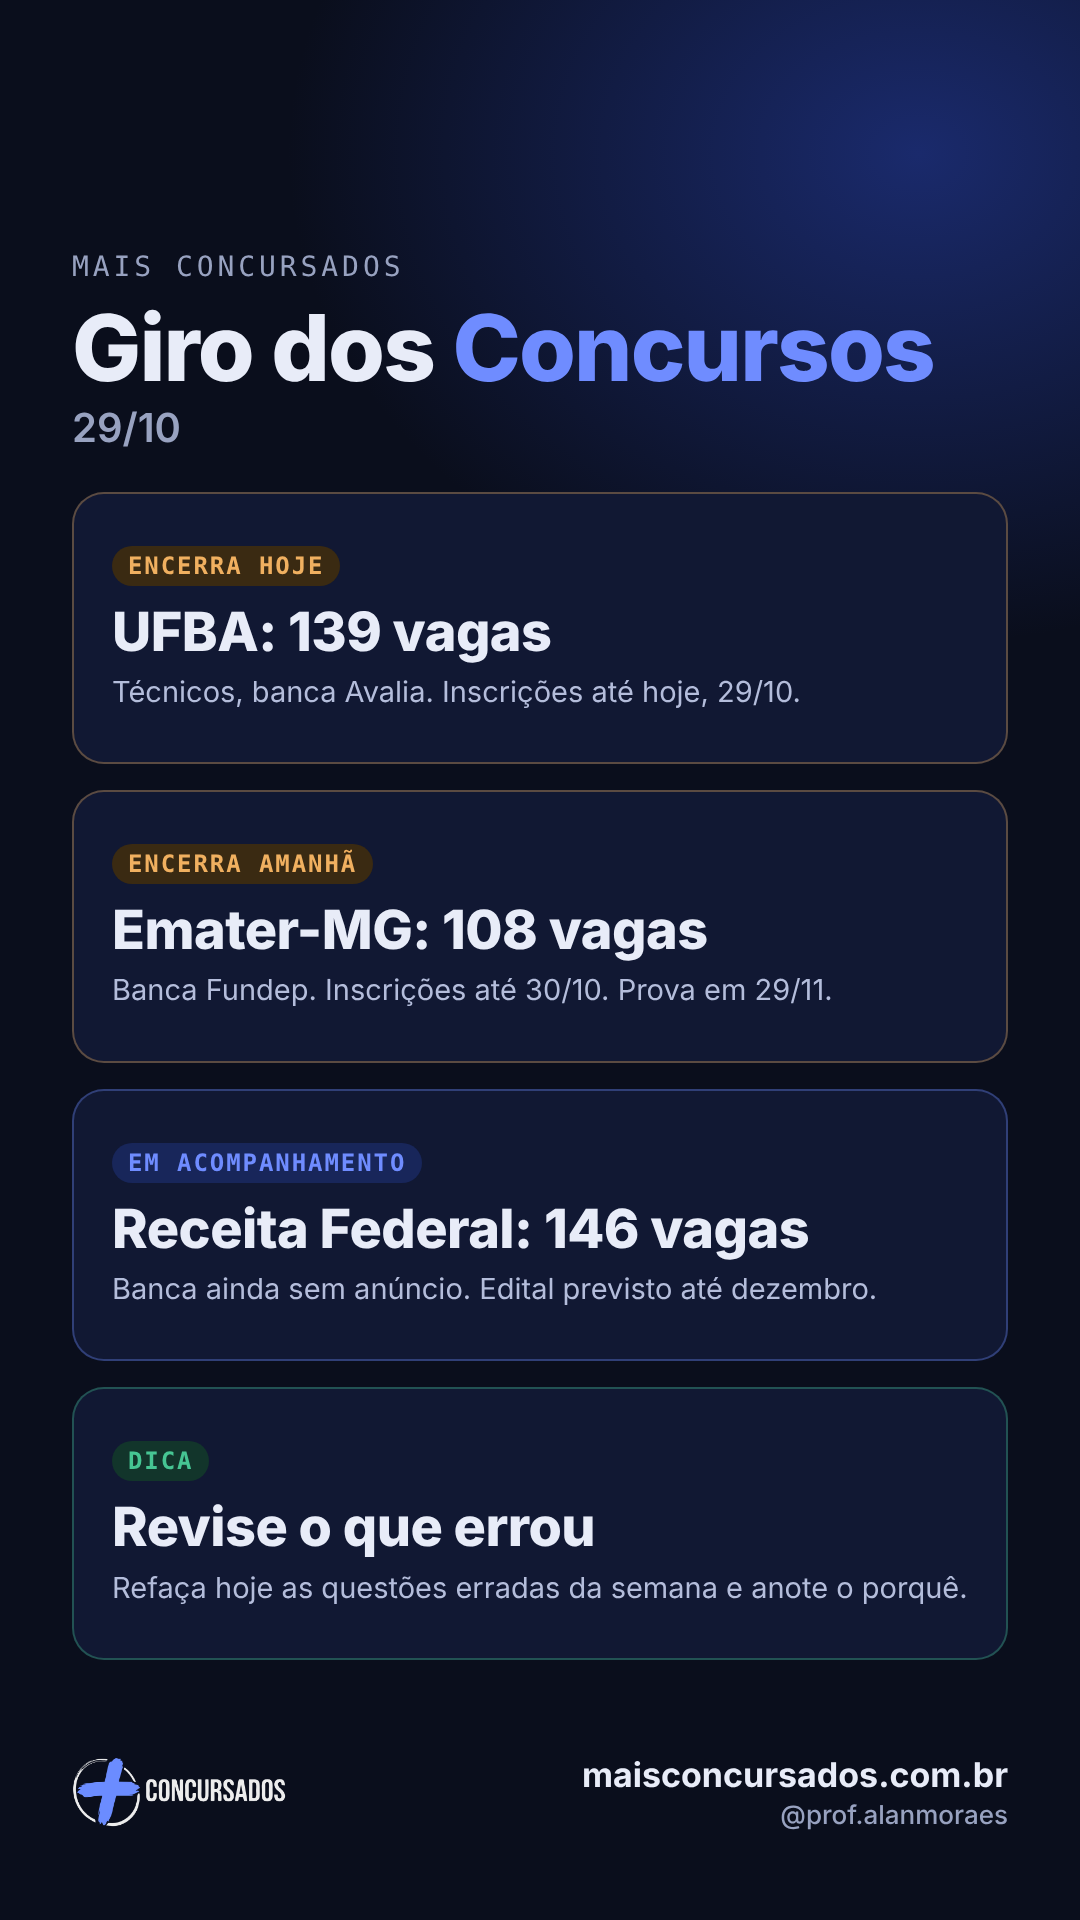
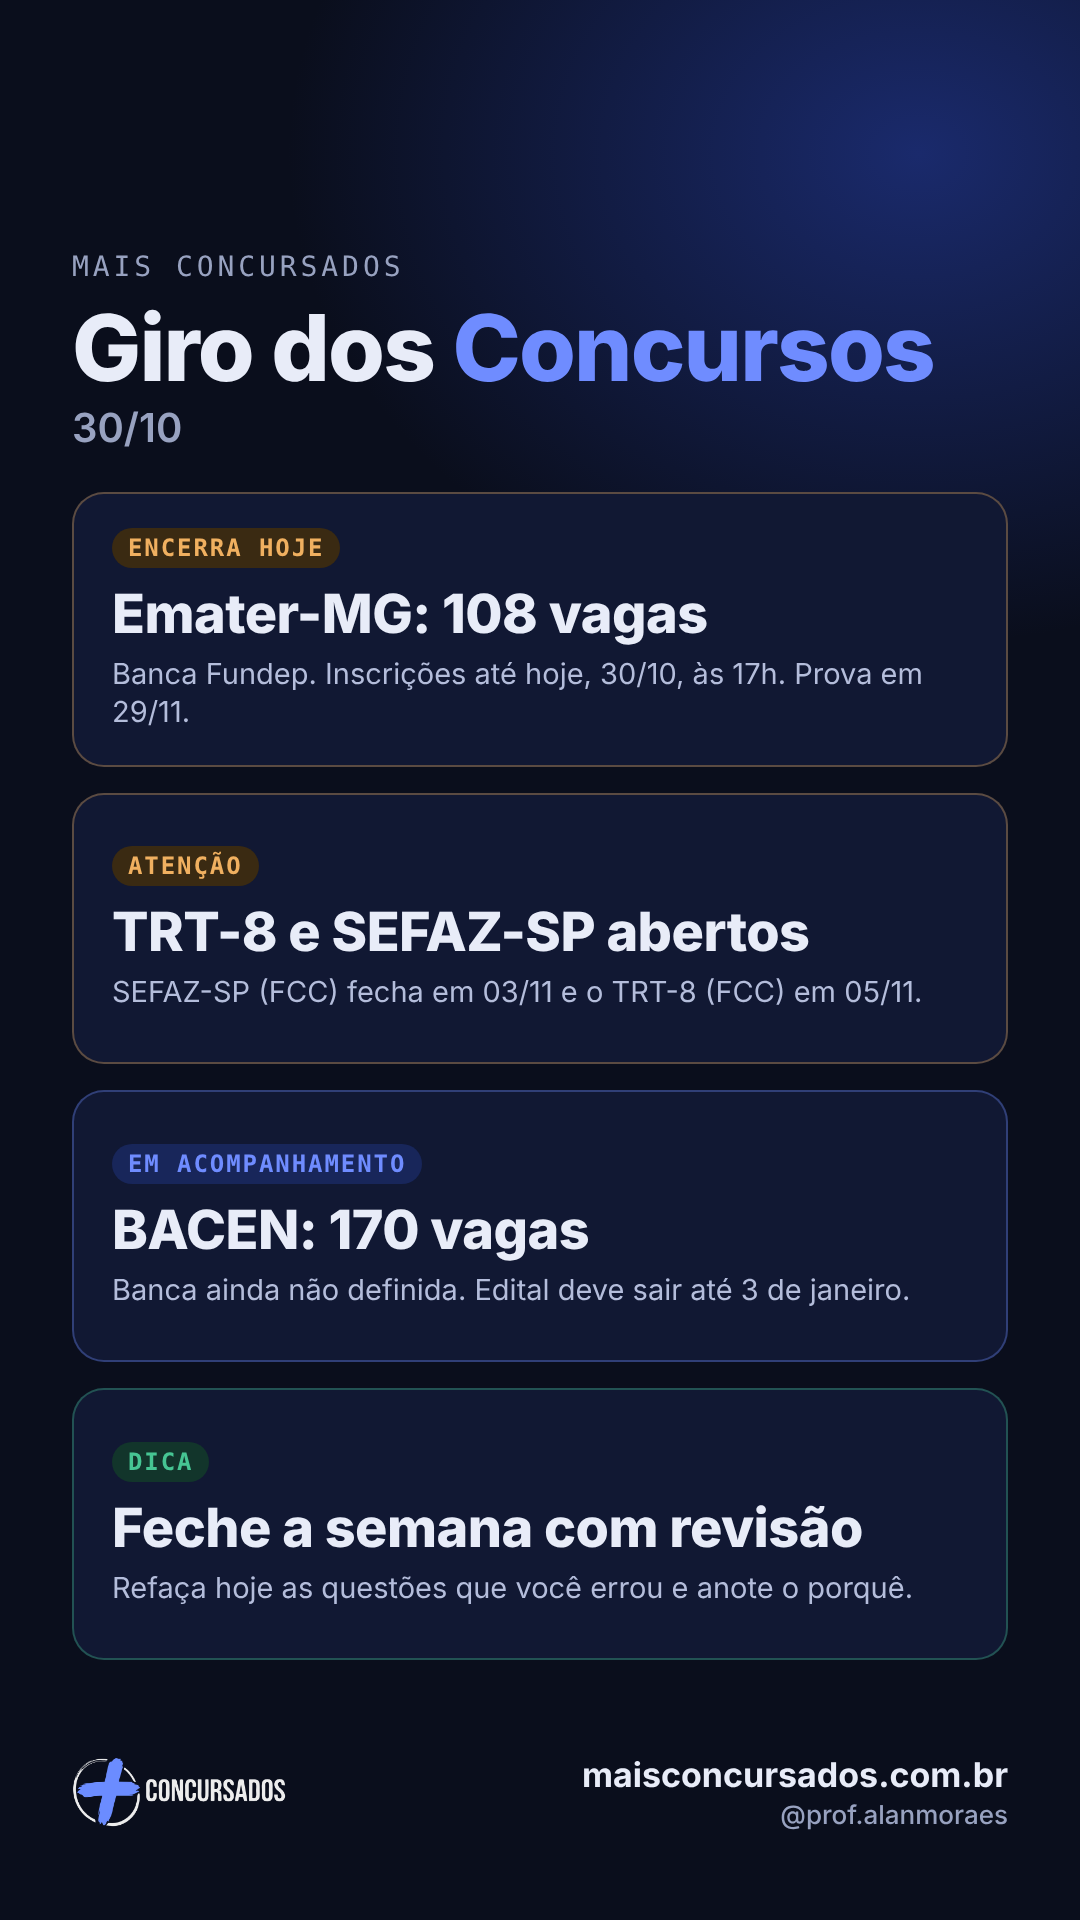
Giro dos Concursos 30/10: UFBA encerrado e arte de stories
Claude-Session: https://claude.ai/code/session_01A4P6MbN4PMGdxMPmZeX3pH

diff --git a/site/editais.html b/site/editais.html
@@ -48,7 +48,7 @@
 </main>
 <footer><div class="wrap"><div><h4>Mais Concursados</h4><p>Editais de concursos de todas as áreas, com destaque para os bancários, e estudo com método para quem quer a aprovação. Por Alan Moraes, bancário, professor e mentor para concursos.</p></div><div><h4>Navegue</h4><ul><li><a href="editais.html">Editais</a></li><li><a href="cursos.html">Cursos</a></li><li><a href="blog.html">Blog</a></li><li><a href="mentorias.html">Mentorias</a></li><li><a href="area-do-aluno.html">Área do aluno</a></li></ul></div><div><h4>Institucional</h4><ul><li><a href="sobre.html">Sobre o Alan</a></li><li><a href="contato.html">Contato</a></li><li><a href="privacidade.html">Política de privacidade</a></li></ul></div><p class="legal">© 2026 Mais Concursados · maisconcursados.com.br. As informações de editais vêm de portais de notícias e devem ser conferidas no edital oficial. O Mais Concursados não é banca organizadora nem órgão público.</p></div></footer>
 <script type="application/json" id="editais-data">{
- "atualizadoEm": "2026-10-29",
+ "atualizadoEm": "2026-10-30",
  "aviso": "Conferido em 13/10/2026 no texto dos editais e em pelo menos duas fontes independentes. Os sites das bancas bloquearam a leitura automática, por isso confirme sempre no edital oficial antes de se inscrever.",
  "editais": [
   {
@@ -114,7 +114,7 @@
    "org": "UFBA",
    "cargo": "Técnico-administrativo (Assistente em Administração e outros)",
    "area": "educacao",
-   "status": "aberto",
+   "status": "encerrado",
    "banca": "Avalia",
    "vagas": 139,
    "vagasTexto": "139",

diff --git a/site/index.html b/site/index.html
@@ -72,7 +72,7 @@
 </main>
 <footer><div class="wrap"><div><h4>Mais Concursados</h4><p>Editais de concursos de todas as áreas, com destaque para os bancários, e estudo com método para quem quer a aprovação. Por Alan Moraes, bancário, professor e mentor para concursos.</p></div><div><h4>Navegue</h4><ul><li><a href="editais.html">Editais</a></li><li><a href="cursos.html">Cursos</a></li><li><a href="blog.html">Blog</a></li><li><a href="mentorias.html">Mentorias</a></li><li><a href="area-do-aluno.html">Área do aluno</a></li></ul></div><div><h4>Institucional</h4><ul><li><a href="sobre.html">Sobre o Alan</a></li><li><a href="contato.html">Contato</a></li><li><a href="privacidade.html">Política de privacidade</a></li></ul></div><p class="legal">© 2026 Mais Concursados · maisconcursados.com.br. As informações de editais vêm de portais de notícias e devem ser conferidas no edital oficial. O Mais Concursados não é banca organizadora nem órgão público.</p></div></footer>
 <script type="application/json" id="editais-data">{
- "atualizadoEm": "2026-10-29",
+ "atualizadoEm": "2026-10-30",
  "aviso": "Conferido em 13/10/2026 no texto dos editais e em pelo menos duas fontes independentes. Os sites das bancas bloquearam a leitura automática, por isso confirme sempre no edital oficial antes de se inscrever.",
  "editais": [
   {
@@ -138,7 +138,7 @@
    "org": "UFBA",
    "cargo": "Técnico-administrativo (Assistente em Administração e outros)",
    "area": "educacao",
-   "status": "aberto",
+   "status": "encerrado",
    "banca": "Avalia",
    "vagas": 139,
    "vagasTexto": "139",
